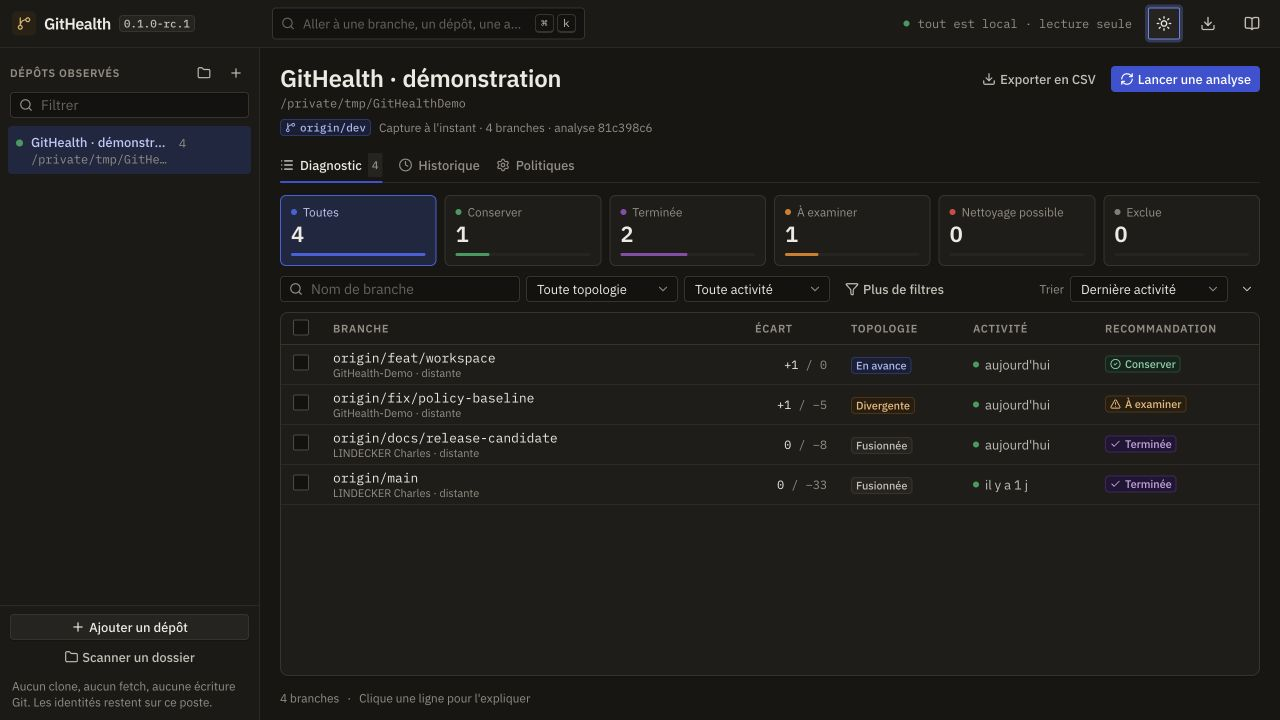
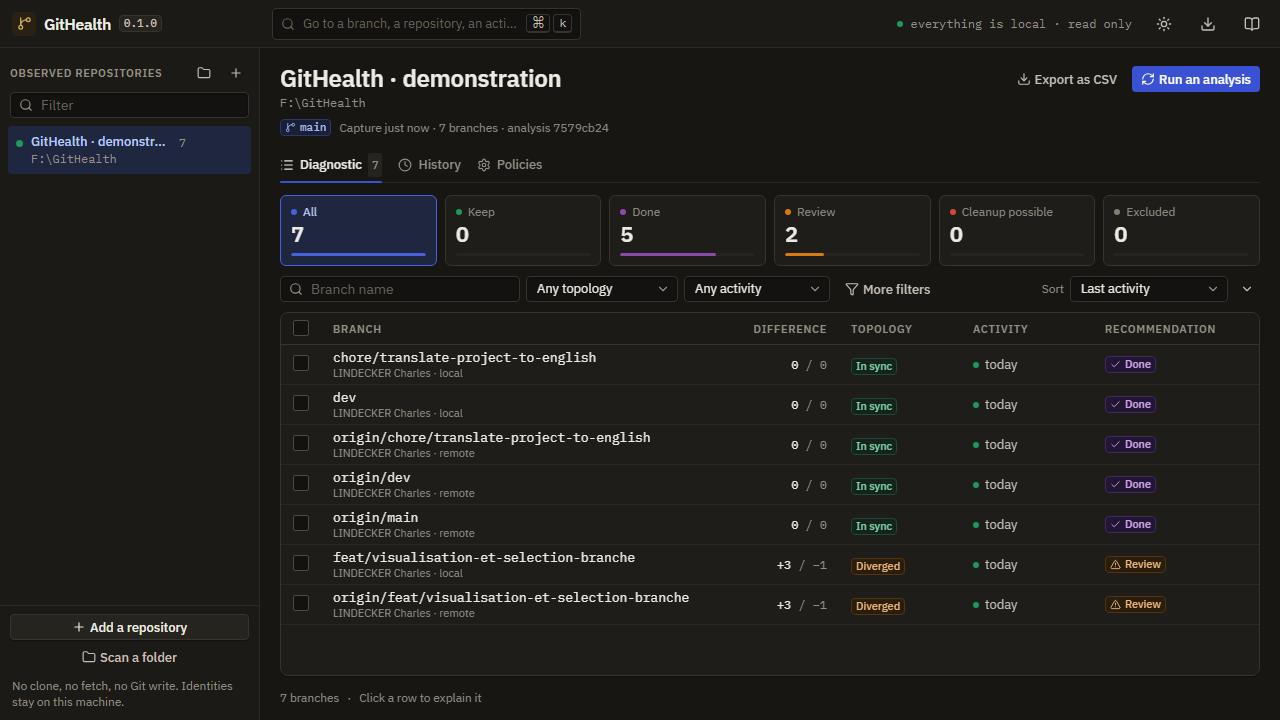
docs: translate the residual French and adopt English commit messages
The guides were already English but quoted French strings the code no longer
emits; every quotation now matches what the code, the scripts and the CI
actually produce. The notes that only existed because the product was French
are deleted rather than translated.

The Conventional Commits convention switches to English, declared the same
way in AGENTS.md, CONTRIBUTING.md and the pull request template, with English
examples. Past commits are left as they are.

The README screenshots are regenerated from the English build, as
ART_DIRECTION.md requires whenever the semantics change.

diff --git a/.github/CONTRIBUTING.md b/.github/CONTRIBUTING.md
@@ -242,18 +242,18 @@ type/short-description
 - **description**: `kebab-case`, without accents, two to five words stating what the branch
   is about.
 
-Examples: `feat/scan-dossier-parallele`, `fix/csp-base-uri`,
-`docs/guide-utilisateur-politiques`.
+Examples: `feat/parallel-folder-scan`, `fix/csp-base-uri`,
+`docs/user-guide-policies`.
 
 ## Commits
 
-The repository follows **Conventional Commits**, written **in French**:
+The repository follows **Conventional Commits**, written **in English**:
 
 ```
 type(scope): description
 ```
 
-- description in the infinitive, lowercase initial, no trailing period;
+- description in the imperative, lowercase initial, no trailing period;
 - subject of **72 characters maximum**;
 - optional body, reserved for the *why*;
 - a breaking change is signalled by a `BREAKING CHANGE:` footer;
@@ -277,9 +277,9 @@ The changelog entry is attached to the commit of the feature or the fix it docum
 Example:
 
 ```
-feat(front): ajouter la palette de commandes au clavier
-fix(api): rejeter la relocalisation pendant une analyse en cours
-docs(docs): documenter l'échelle réduite des branches fusionnées
+feat(front): add the keyboard command palette
+fix(api): reject relocation while an analysis is running
+docs(docs): document the shortened scale of merged branches
 ```
 
 ## Changelog

diff --git a/docs/DEVOPS.md b/docs/DEVOPS.md
@@ -443,8 +443,8 @@ to be rejected — `GITHUB_TOKEN` is subject to branch protection like anyone el
 ### Going further
 
 To make `dev` green by construction rather than after the fact, add the required checks
-`Vérifier le socle` and `Auditer les dépendances`. Those contexts are the workflow job
-names, written in French in `.github/workflows/`, and must be copied exactly. Keep
+`Verify the baseline` and `Audit dependencies`. Those contexts are the workflow job
+names declared in `.github/workflows/`, and must be copied exactly. Keep
 `strict: false`: requiring an up-to-date branch before merging would be redundant, because
 CI replays on the merge commit anyway, and it is that run which gates the promotion.
 
@@ -452,7 +452,7 @@ Required checks impose the pull request on their own — a commit pushed directl
 result yet and gets refused. That is the trade-off to weigh: the branch can no longer be
 pushed to directly, for any change.
 
-Now that the repository is public, `Examiner les dépendances` and the two `CodeQL` jobs
+Now that the repository is public, `Review dependencies` and the two `CodeQL` jobs
 actually run and can be required as well. They stay skipped, and would therefore count as
 green, on a private repository without an Advanced Security licence.
 

diff --git a/CHANGELOG.md b/CHANGELOG.md
@@ -3,6 +3,16 @@
 All notable changes to GitHealth are recorded in this file. The format follows Keep a
 Changelog and semantic versioning.
 
+## [Unreleased]
+
+### Changed
+
+- **the application now speaks English**: every screen label, empty state, toast and
+  error message, the launcher `--help` output and the whole documentation are written
+  in English, so the guides quote the exact wording shown on screen;
+- dates, numbers and byte sizes follow the locale declared by the interface instead of a
+  hard-coded French format, which prepares GitHealth for additional locales.
+
 ## [0.1.0] - 2026-08-30
 
 First public release. It is a `0.x`: the public contract is not frozen yet, and a later

diff --git a/docs/USER_GUIDE.md b/docs/USER_GUIDE.md
@@ -4,11 +4,6 @@ This guide covers version `0.1.0`. GitHealth runs on your machine,
 reads repositories that are already there, and keeps its results in a local SQLite
 database.
 
-> [!NOTE]
-> The application interface currently ships in French only. The labels quoted in this
-> guide are translated to English; look for the equivalent French wording on screen.
-> Translating the interface is planned, and tracked in the known limitations.
-
 ## Contents
 
 - [What GitHealth does, and never does](#what-githealth-does-and-never-does)

diff --git a/docs/DESKTOP_PLAN.md b/docs/DESKTOP_PLAN.md
@@ -301,7 +301,7 @@ In order of effort-to-benefit ratio.
 
 See `AGENTS.md`. The points that will bite on this work:
 
-- **Commits**: Conventional Commits in French, subject ≤ 72 characters, one commit = one
+- **Commits**: Conventional Commits in English, subject ≤ 72 characters, one commit = one
   coherent change. Scopes: `src/App.GitHealth.Api/**` → `api`,
   `src/App.GitHealth.Web/**` → `front`, `.github/**` → `ci`, `docs/**` → `docs`.
   `eng/**` is not mapped: attach it to `infra`.

diff --git a/.github/PULL_REQUEST_TEMPLATE.md b/.github/PULL_REQUEST_TEMPLATE.md
@@ -28,7 +28,7 @@
 
 ## Checks
 
-- [ ] Commits follow Conventional Commits in French, with the repository scope.
+- [ ] Commits follow Conventional Commits in English, with the repository scope.
 - [ ] The branch follows `type/short-description` and covers a single topic.
 - [ ] The feature or the fix is covered by tests, shipped here.
 - [ ] `dotnet format --verify-no-changes` and `prettier --check` pass.

diff --git a/docs/KNOWN_LIMITATIONS.md b/docs/KNOWN_LIMITATIONS.md
@@ -33,5 +33,3 @@
   startup. It does not protect against malware running with the same rights as the user.
 - Docker only sees the repositories placed under the `/repositories` mount. Host paths
   and container paths are not interchangeable.
-- The application interface is available in French only. The documentation is in English,
-  so the labels it quotes are translations of what is shown on screen.

diff --git a/AGENTS.md b/AGENTS.md
@@ -7,7 +7,7 @@ installed by `/b-hive-dev-convention`.
 ## commit
 
 Commit convention (maintained by /commit, initialised by /b-hive-init).
-- Style: Conventional Commits — language: fr
+- Style: Conventional Commits — language: en
 - Scopes (path → scope):
   - `src/App.GitHealth.Api/**` → `api`
   - `src/App.GitHealth.Core/**` → `core`
